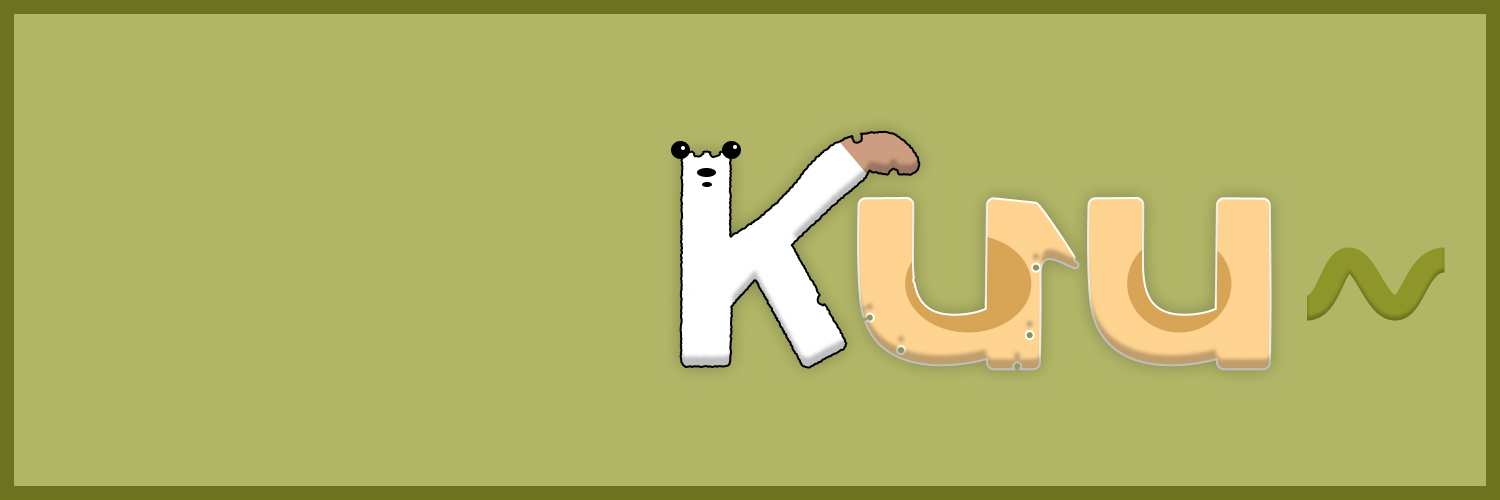
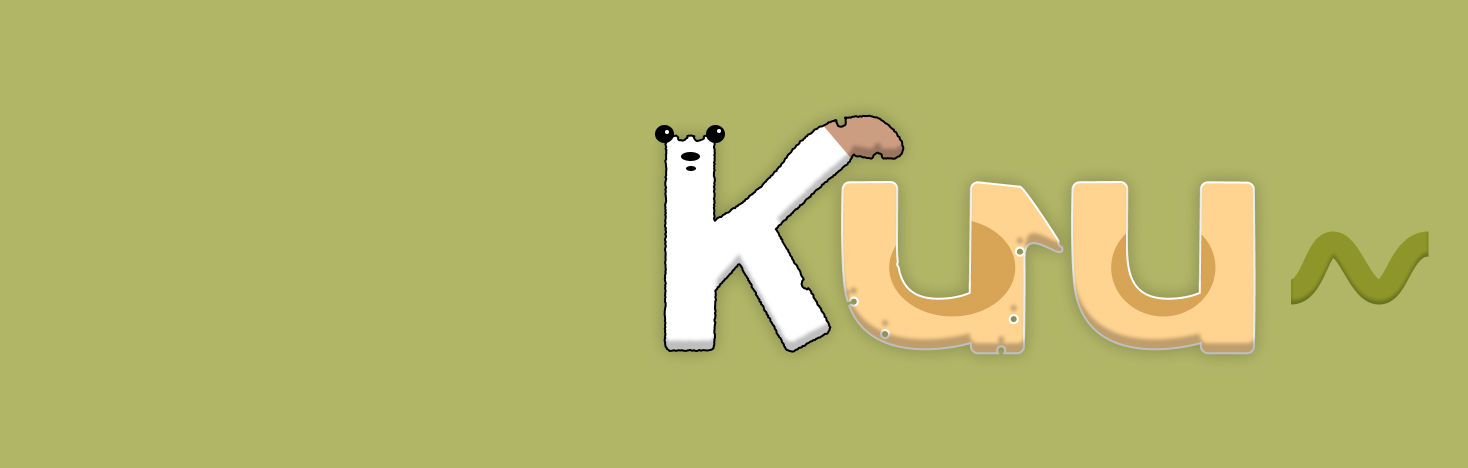
Add files via upload

diff --git a/style.css b/style.css
@@ -2,7 +2,7 @@
    くー / Kuu~  ブランドカラー（ヘッダー・アイコンから抽出）
    ========================================================== */
 :root {
-  --olive-bg: #b3b466;    /* ヘッダー背景 */
+  --olive-bg: #b1b667;    /* ヘッダー背景 */
   --olive-deep: #6e6e1e;  /* ヘッダー枠 */
   --olive: #8f9a2a;       /* 「~」の波 */
   --paper: #fffdf5;       /* カード */
@@ -72,12 +72,18 @@ h1, h2, h3 { margin: 0; line-height: 1.4; }
 .hero { text-align: center; padding-bottom: 28px; }
 .hero__banner {
   background: var(--olive-bg);
+  border-bottom: 6px solid var(--olive-deep);
 }
-.hero__banner img { width: 100%; max-height: 420px; object-fit: cover; object-position: 70% 50%; }
+/* 最初の画面に「ご依頼・ご相談」ボタンまで収まるよう、画面の高さに合わせて縮める */
+.hero__banner img {
+  width: 100%;
+  height: min(31.9vw, max(150px, 100svh - var(--hero-below, 460px)));
+  object-fit: contain;
+}
 .hero__body { display: flex; flex-direction: column; align-items: center; }
 .avatar {
-  width: 168px; height: 168px;
-  margin-top: -96px;
+  width: 136px; height: 136px;
+  margin-top: -40px;
   border-radius: 50%;
   background: var(--paper);
   padding: 6px;
@@ -92,10 +98,10 @@ h1, h2, h3 { margin: 0; line-height: 1.4; }
 }
 .avatar img { width: 100%; height: 100%; border-radius: 50%; object-fit: cover; }
 .hero__name {
-  margin-top: 14px;
+  margin-top: 8px;
   font-family: var(--font-pop);
   font-weight: 400;
-  font-size: clamp(2rem, 6vw, 2.6rem);
+  font-size: clamp(1.9rem, 6vw, 2.3rem);
   color: var(--paper);
   -webkit-text-stroke: 2px var(--ink);
   paint-order: stroke fill;
@@ -113,7 +119,7 @@ h1, h2, h3 { margin: 0; line-height: 1.4; }
   padding: 2px 14px; border-radius: 99px;
 }
 .hero__catch {
-  margin: 18px 0 4px;
+  margin: 12px 0 0;
   font-family: var(--font-pop);
   font-size: clamp(1.25rem, 4.4vw, 1.75rem);
   line-height: 1.6;
@@ -121,7 +127,7 @@ h1, h2, h3 { margin: 0; line-height: 1.4; }
 }
 
 /* SNS */
-.sns { list-style: none; display: flex; gap: 12px; padding: 0; margin: 14px 0 22px; }
+.sns { list-style: none; display: flex; gap: 12px; padding: 0; margin: 10px 0 18px; }
 .sns a {
   display: grid; place-items: center;
   width: 46px; height: 46px; border-radius: 50%;
@@ -425,4 +431,10 @@ mark {
   html { scroll-behavior: auto; }
   .reveal { opacity: 1; translate: none; transition: none; }
   * { transition: none !important; }
+}
+
+/* ---------- HERO（スマホ） ---------- */
+@media (max-width: 600px) {
+  .avatar { width: 108px; height: 108px; margin-top: -14px; padding: 4px; }
+  .hero__role { font-size: .8rem; line-height: 1.6; border-radius: 14px; padding: 4px 16px; }
 }

diff --git a/index.html b/index.html
@@ -31,14 +31,14 @@
   <!-- ===== HERO ===== -->
   <header class="hero">
     <div class="hero__banner">
-      <img src="header.png" alt="Kuu~ ヘッダー" width="1500" height="500">
+      <img src="header.png" alt="Kuu~ ヘッダー" width="1468" height="468">
     </div>
     <div class="hero__body wrap">
       <div class="avatar">
         <img src="icon.webp" alt="くーのアイコン（カメラを構えるナマケモノ）" width="160" height="160">
       </div>
       <h1 class="hero__name">くー <span class="en">Kuu~</span></h1>
-      <p class="hero__role">Vtuber専門｜サムネイル・動画編集・ショート動画制作</p>
+      <p class="hero__role">Vtuber専門<span class="pc">｜</span><br class="sp">サムネイル・動画編集・ショート動画制作</p>
       <p class="hero__catch">伸びる“型”に、<br class="sp">くーらしさをひと匙。</p>
       <ul class="sns" id="sns"></ul>
       <a class="btn btn--main" href="#contact">ご依頼・ご相談はこちら</a>
